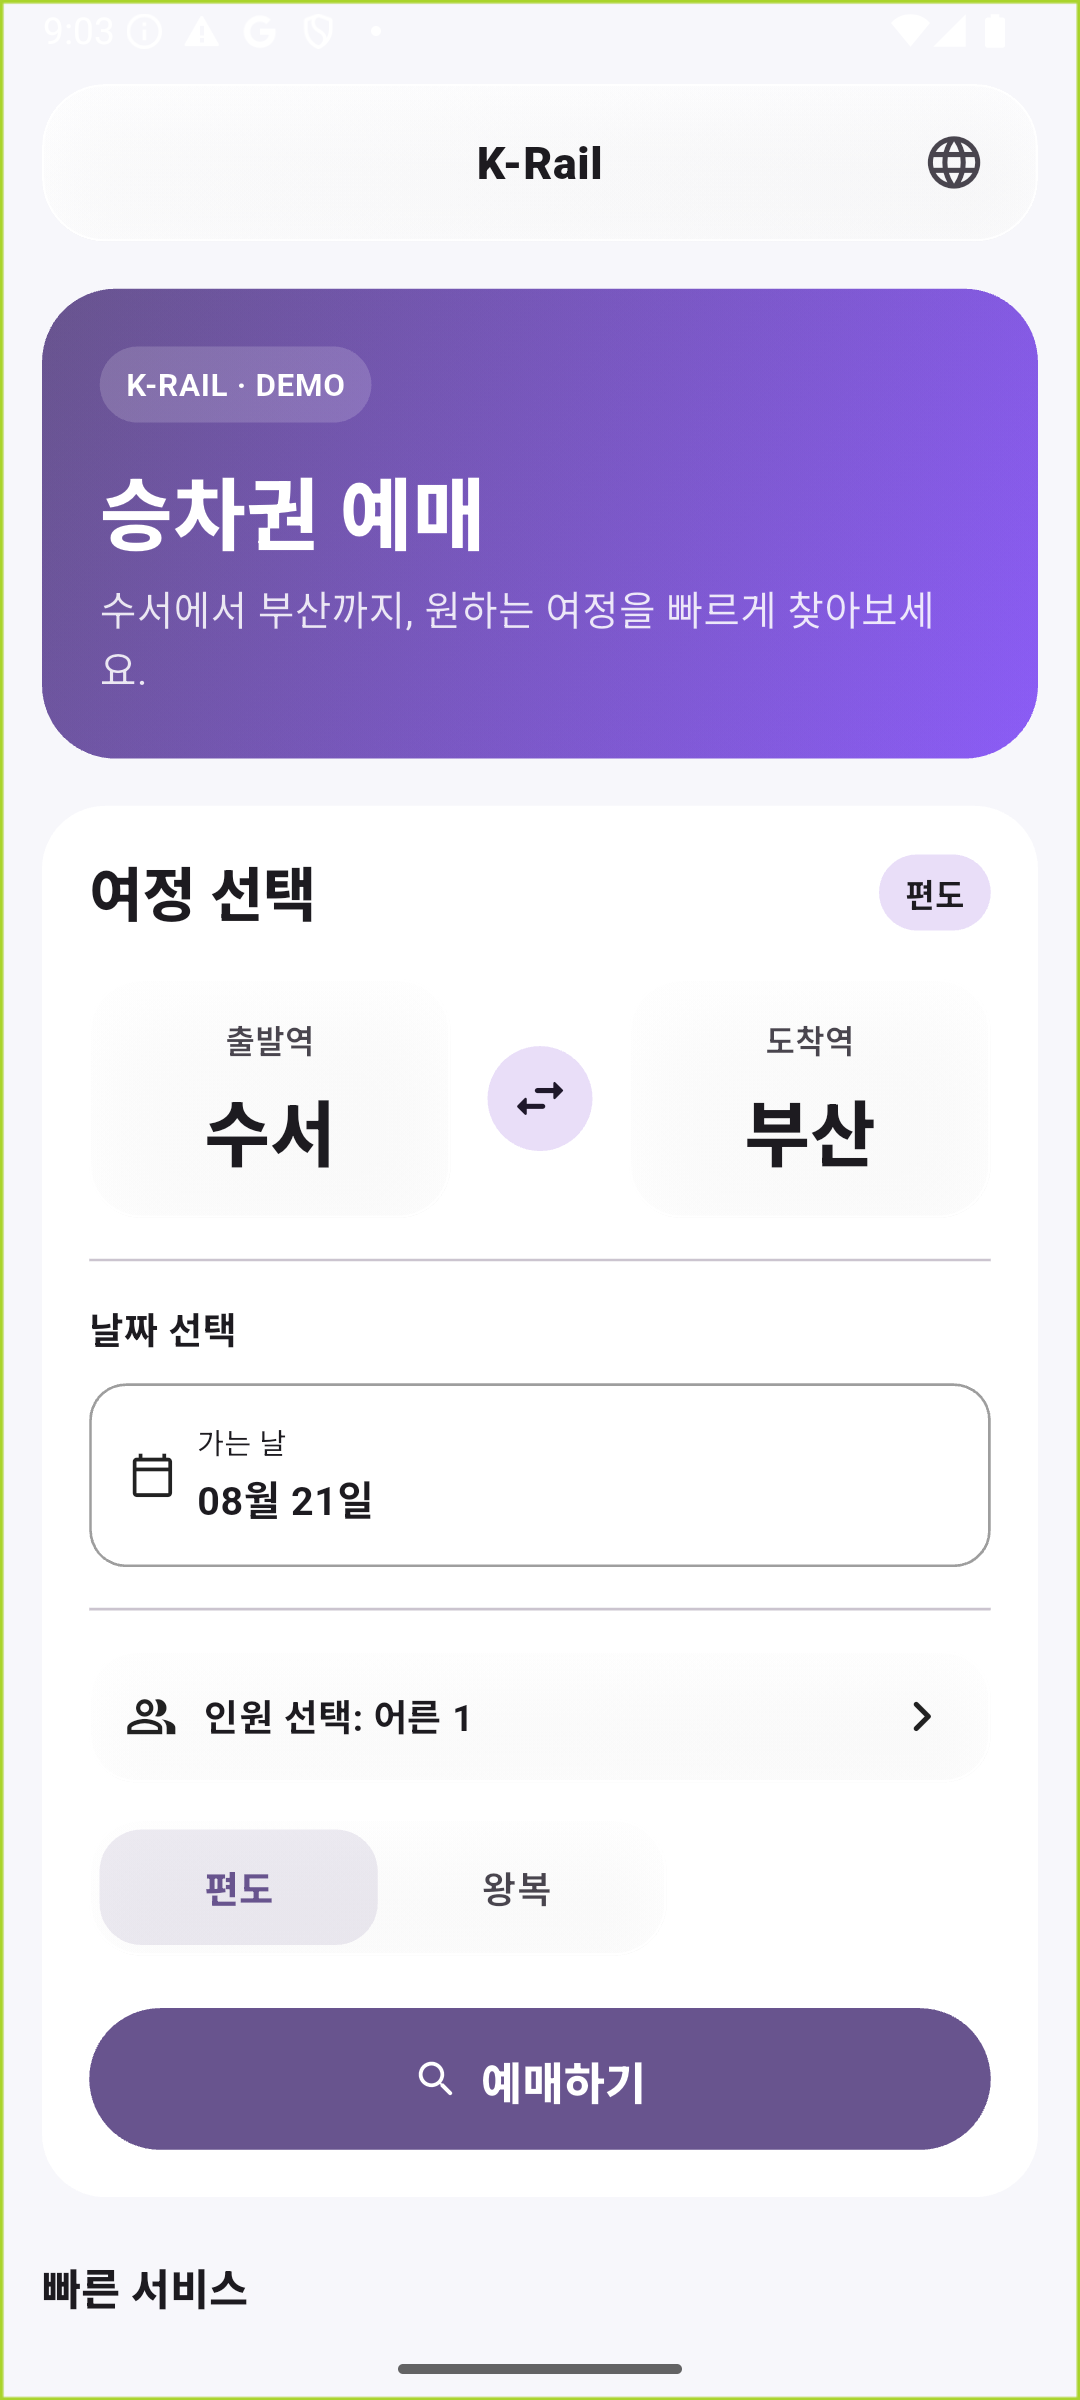
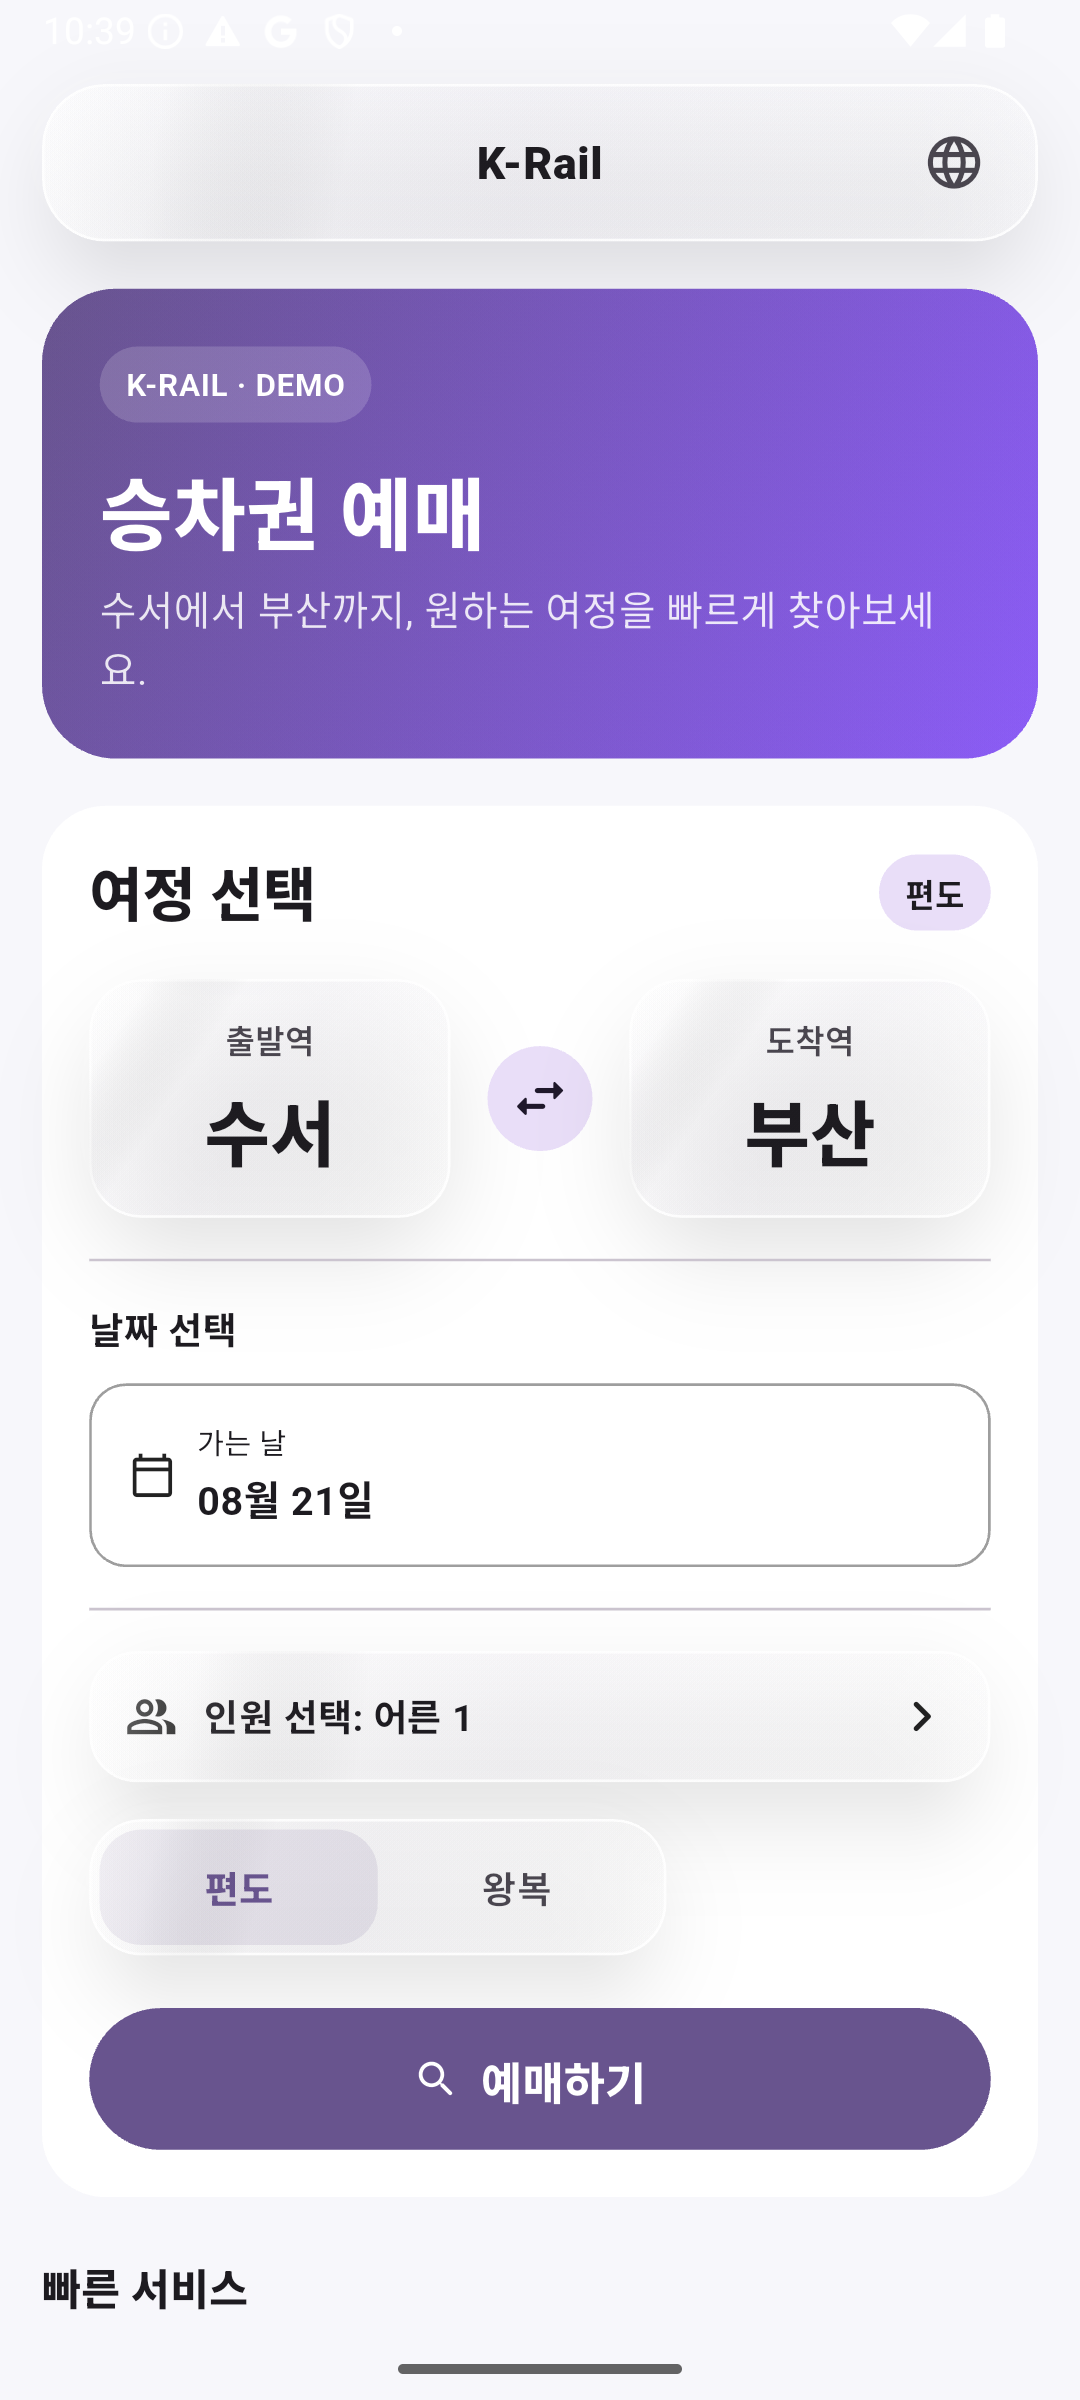
Strengthen K-Rail liquid glass controls

Changed region(s): [[0.9778, 0.0, 1.0, 1.0], [0.0, 0.0, 0.0306, 1.0], [0.1222, 0.6875, 0.1528, 0.7188]]

diff --git a/lib/v2/v2_glass.dart b/lib/v2/v2_glass.dart
@@ -78,9 +78,13 @@ class AppGlassSurface extends StatelessWidget {
   Widget build(BuildContext context) {
     final media = MediaQuery.maybeOf(context);
     final highContrast = media?.highContrast ?? false;
-    final dark = Theme.of(context).brightness == Brightness.dark;
+    final theme = Theme.of(context);
+    final dark = theme.brightness == Brightness.dark;
     final base = dark ? const Color(0xFF24242D) : Colors.white;
-    final alpha = highContrast ? (dark ? .96 : .98) : (dark ? .68 : .70);
+    final accent = Color.lerp(base, theme.colorScheme.primary, dark ? .16 : .10)!;
+    final topAlpha = highContrast ? (dark ? .96 : .98) : (dark ? .60 : .48);
+    final middleAlpha = highContrast ? (dark ? .94 : .96) : (dark ? .50 : .36);
+    final bottomAlpha = highContrast ? (dark ? .92 : .94) : (dark ? .42 : .28);
 
     Widget content = Padding(padding: padding, child: child);
     if (onTap != null) {
@@ -94,42 +98,84 @@ class AppGlassSurface extends StatelessWidget {
       );
     }
 
-    final decorated = DecoratedBox(
+    final body = Stack(
+      fit: StackFit.passthrough,
+      children: [
+        DecoratedBox(
+          decoration: BoxDecoration(
+            borderRadius: borderRadius,
+            gradient: LinearGradient(
+              begin: Alignment.topLeft,
+              end: Alignment.bottomRight,
+              stops: const [0, .48, 1],
+              colors: [
+                base.withValues(alpha: topAlpha),
+                accent.withValues(alpha: middleAlpha),
+                base.withValues(alpha: bottomAlpha),
+              ],
+            ),
+            border: Border.all(
+              color: dark
+                  ? Colors.white.withValues(alpha: highContrast ? .34 : .28)
+                  : Colors.white.withValues(alpha: highContrast ? .96 : .80),
+              width: 1,
+            ),
+          ),
+          child: content,
+        ),
+        Positioned.fill(
+          child: IgnorePointer(
+            child: DecoratedBox(
+              decoration: BoxDecoration(
+                borderRadius: borderRadius,
+                gradient: LinearGradient(
+                  begin: Alignment.topLeft,
+                  end: Alignment.center,
+                  stops: const [0, .24, .62],
+                  colors: [
+                    Colors.white.withValues(alpha: dark ? .16 : .36),
+                    Colors.white.withValues(alpha: dark ? .05 : .11),
+                    Colors.transparent,
+                  ],
+                ),
+              ),
+            ),
+          ),
+        ),
+      ],
+    );
+
+    final clipped = ClipRRect(
+      borderRadius: borderRadius,
+      child: highContrast || blurSigma <= 0
+          ? body
+          : BackdropFilter(
+              filter: ImageFilter.blur(
+                sigmaX: blurSigma + 4,
+                sigmaY: blurSigma + 4,
+              ),
+              child: body,
+            ),
+    );
+    final surface = DecoratedBox(
       decoration: BoxDecoration(
         borderRadius: borderRadius,
-        gradient: LinearGradient(
-          begin: Alignment.topLeft,
-          end: Alignment.bottomRight,
-          colors: [
-            base.withValues(alpha: (alpha + .10).clamp(0, 1)),
-            base.withValues(alpha: alpha),
-          ],
-        ),
-        border: Border.all(
-          color: dark
-              ? Colors.white.withValues(alpha: highContrast ? .28 : .16)
-              : Colors.white.withValues(alpha: .92),
-          width: .8,
-        ),
         boxShadow: [
           BoxShadow(
-            color: Colors.black.withValues(alpha: dark ? .22 : .08),
-            blurRadius: 24,
-            offset: const Offset(0, 10),
+            color: Colors.black.withValues(alpha: dark ? .28 : .13),
+            blurRadius: 32,
+            spreadRadius: -4,
+            offset: const Offset(0, 14),
+          ),
+          BoxShadow(
+            color: Colors.white.withValues(alpha: dark ? .04 : .20),
+            blurRadius: 10,
+            spreadRadius: -5,
+            offset: const Offset(-4, -4),
           ),
         ],
       ),
-      child: content,
-    );
-
-    final surface = ClipRRect(
-      borderRadius: borderRadius,
-      child: highContrast || blurSigma <= 0
-          ? decorated
-          : BackdropFilter(
-              filter: ImageFilter.blur(sigmaX: blurSigma, sigmaY: blurSigma),
-              child: decorated,
-            ),
+      child: clipped,
     );
     if (semanticLabel == null) return surface;
     return Semantics(
